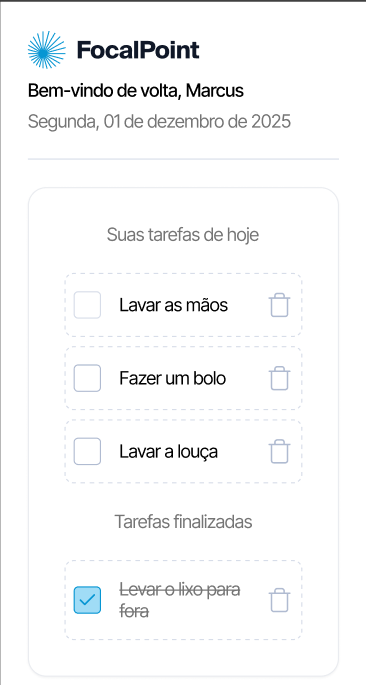
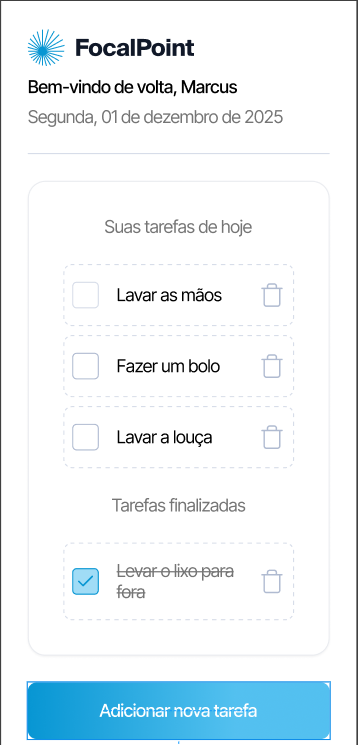
feat(button): create the primary button with reutilization and add below the tasks section

diff --git a/src/components/Tasks/index.tsx b/src/components/Tasks/index.tsx
@@ -1,6 +1,7 @@
-import Image from 'next/image'
-import Trash from '../../assets/trash.png'
-import './Tasks.scss'
+import Image from 'next/image';
+import Trash from '../../assets/trash.png';
+import PrimaryButton from '../Buttons/PrimaryButton';
+import './Tasks.scss';
 
 export default function Tasks(): JSX.Element {
     return (
@@ -46,6 +47,7 @@ export default function Tasks(): JSX.Element {
                     </div>
                 </div>
             </section>
+            <PrimaryButton firstColor='#0796D3 0%' secondColor='#53C0F0 68.65%'>Adicionar nova tarefa</PrimaryButton>
         </main>
         </>
     )

diff --git a/src/components/Tasks/Tasks.scss b/src/components/Tasks/Tasks.scss
@@ -121,6 +121,12 @@ main.tasksMain {
             h3 { margin-top: 24px; }
         }
     }
+    
+    button {
+        width: 450px;
+        height: 51px;
+        margin-top: 24px;
+    }
 
     @include maxWidth480px {
         section.tasksSection {
@@ -130,6 +136,12 @@ main.tasksMain {
             div.tasksToDo, div.tasksDone {
                 gap: 8px;
             }
+        }
+
+        button {
+            width: 272px;
+            height: 51px;
+            margin-top: 24px;
         }
     }
 }

diff --git a/src/components/Buttons/PrimaryButton/index.tsx b/src/components/Buttons/PrimaryButton/index.tsx
@@ -1,0 +1,15 @@
+import './PrimaryButton.scss';
+
+type ButtonProps = {
+    children: React.ReactNode;
+    firstColor: string;
+    secondColor: string,
+}
+
+export default function PrimaryButton({children, firstColor, secondColor}: ButtonProps): JSX.Element {
+    return (
+        <button style={{background: `linear-gradient(90deg, ${firstColor}, ${secondColor})`}}>
+            {children}
+        </button>
+    )
+}

diff --git a/src/components/Buttons/PrimaryButton/PrimaryButton.scss b/src/components/Buttons/PrimaryButton/PrimaryButton.scss
@@ -1,0 +1,13 @@
+button {
+    color: white;
+    border: none;
+    border-radius: 8px;
+    padding: 16px 24px;
+    gap: 8px;
+    font-size: 16px;
+    font-weight: 500;
+    line-height: 19.36px;
+    letter-spacing: -0.02em;
+    text-align: center;
+    cursor: pointer;
+}

diff --git a/README.md b/README.md
@@ -1,22 +1,22 @@
 # 📝 Case Dev Junior - TodoList - Legaplan 📝
 
-> Commit: 20/09/2024 - 14:57 ( Commit de criação do componente Tasks - Responsável por renderizar todos as tarefas )
+> Commit: 20/09/2024 - 15:53 ( Commit de criação do componente de botão que será reutilizado pelo código )
 
 #
 
-## 💭 Seção de tarefas objetivo x criado (PC):
-- ### Seção de tarefas objetivo:
-!['Foto da Seção de tarefas do objetivo - PC'](/src/assets/taskSectionObjective-PC.png)
+## 💭 Botão do objetivo x criado (PC):
+- ### Botão do objetivo:
+!['Foto do botão do objetivo - PC'](/src/assets/taskSectionObjective-PC.png)
 
 - ### Seção de tarefas criado:
-!['Foto da minha Seção de tarefas - PC'](/src/assets/taskSectionPersonal-PC.png)
+!['Foto do meu botão - PC'](/src/assets/taskSectionPersonal-PC.png)
 
-## 💭 Seção de tarefas objetivo x criado (Mobile):
-- ### Seção de tarefas objetivo:
-!['Foto da Seção de tarefas do objetivo - Mobile'](/src/assets/taskSectionObjective-Mobile.png)
+## 💭 Botão do objetivo x criado (Mobile):
+- ### Botão do objetivo:
+!['Foto do botão do objetivo - Mobile'](/src/assets/taskSectionObjective-Mobile.png)
 
 - ### Seção de tarefas criado:
-!['Foto da minha Seção de tarefas - Mobile'](/src/assets/taskSectionPersonal-Mobile.png)
+!['Foto do meu botão - Mobile'](/src/assets/taskSectionPersonal-Mobile.png)
 
 ##
 
@@ -29,16 +29,15 @@ Este projeto é um desafio proposto pela equipe da LegaPlan para uma vaga de dev
 
 ## Alterações na pasta: ( src )
 
-## Alterações nas pastas de ( src ): ( app / assets / components )
-
-### app:
-- app > page.tsx: Importado e adicionado o componente "Tasks" (Responsável por renderizar na tela todas as tarefas).
+## Alterações nas pastas de ( src ): ( assets / components )
 
 ### assets:
-- assets: Adicionado as 4 fotos usadas neste readme e também adicionado a foto da lixeira que se encontra em cada tarefa no canto direito.
+- assets: Adicionado as 4 fotos usadas neste readme para mostrar como o site está no momento atual.
 
 ### components:
-- components > Header: Criado a pasta "Tasks" para guardar a estrutura da seção de tarefas, e também criada a estilização em Scss. 
+- components > Buttons: Criado a pasta "Buttons" para guardar o botão que vai ser reutilizado no site.
+- components > Buttons > PrimaryButton: Criado a estrutura do botão para ser reutilizado no código, além da sua estilização padrão com scss.
+- components > Tasks: Adicionado o botão "Adicionar nova tarefa" a baixo do componente das tarefas e também adicionado a estilização particular deste botão no scss, como a largura, a altura e o margin-top.
 
 ##
 
